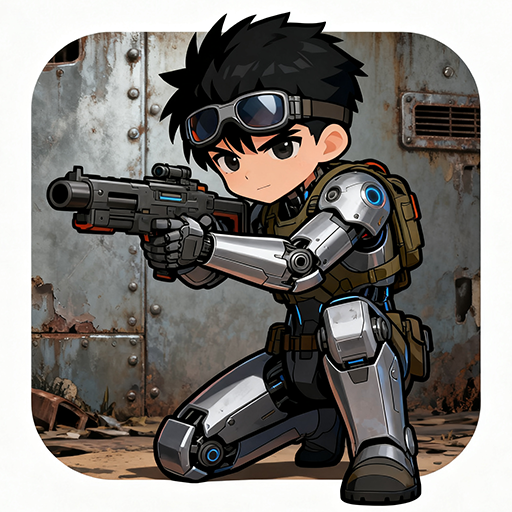
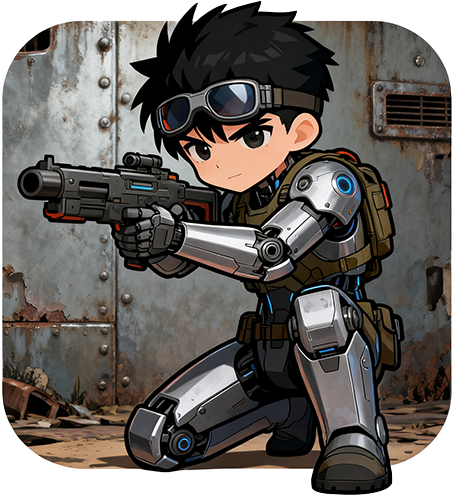
增加安全区域限制，保证UI显示完整

diff --git a/Assets/Scripts/SafeAreaAdapter.cs b/Assets/Scripts/SafeAreaAdapter.cs
@@ -1,0 +1,83 @@
+using UnityEngine;
+using UnityEngine.UI;
+
+[RequireComponent(typeof(RectTransform))]
+public class SafeAreaAdapter : MonoBehaviour
+{
+    [Tooltip("是否强制适配安全区域（勾选则生效，否则忽略）")]
+    public bool enableAdaptation = true; // 用于控制是否启用适配（方便单个Canvas跳过适配）
+
+    private RectTransform _uiRoot;
+    private Rect _lastSafeArea;
+    private Canvas _parentCanvas;
+
+    private void Awake()
+    {
+        _uiRoot = GetComponent<RectTransform>();
+        _parentCanvas = GetComponentInParent<Canvas>();
+
+        if (_parentCanvas == null)
+        {
+            Debug.LogError($"{gameObject.name} 未挂载在任何Canvas下，适配失效！");
+            enabled = false; // 禁用脚本，避免报错
+        }
+    }
+
+    private void Start()
+    {
+        if (enableAdaptation)
+            AdaptToSafeArea();
+    }
+
+    private void Update()
+    {
+        if (enableAdaptation && Screen.safeArea != _lastSafeArea)
+        {
+            AdaptToSafeArea();
+        }
+    }
+
+    private void AdaptToSafeArea()
+    {
+        Rect safeArea = Screen.safeArea;
+        _lastSafeArea = safeArea;
+
+        // 根据Canvas渲染模式计算安全区域的UI坐标
+        Vector2 anchorMin, anchorMax;
+
+        switch (_parentCanvas.renderMode)
+        {
+            case RenderMode.ScreenSpaceOverlay:
+                // 屏幕空间覆盖模式：直接用屏幕像素比例计算锚点
+                anchorMin = new Vector2(safeArea.xMin / Screen.width, safeArea.yMin / Screen.height);
+                anchorMax = new Vector2(safeArea.xMax / Screen.width, safeArea.yMax / Screen.height);
+                break;
+
+            case RenderMode.ScreenSpaceCamera:
+                // 屏幕空间相机模式：需转换为相机视口坐标
+                Camera canvasCam = _parentCanvas.worldCamera ?? Camera.main;
+                if (canvasCam == null)
+                {
+                    Debug.LogError($"{_parentCanvas.name} 未指定相机，适配失效！");
+                    return;
+                }
+                // 将安全区域像素坐标转换为视口坐标（0-1范围）
+                anchorMin = canvasCam.ScreenToViewportPoint(safeArea.position);
+                anchorMax = canvasCam.ScreenToViewportPoint(safeArea.position + safeArea.size);
+                break;
+
+            default:
+                // 世界空间模式（World Space）：通常无需适配安全区域，直接跳过
+                Debug.LogWarning($"{_parentCanvas.name} 是世界空间Canvas，不支持安全区域适配");
+                return;
+        }
+
+        // 应用适配到当前UI根容器
+        _uiRoot.anchorMin = anchorMin;
+        _uiRoot.anchorMax = anchorMax;
+        _uiRoot.offsetMin = Vector2.zero;
+        _uiRoot.offsetMax = Vector2.zero;
+
+        Debug.Log($"{gameObject.name} 适配安全区域完成：{safeArea}");
+    }
+}
